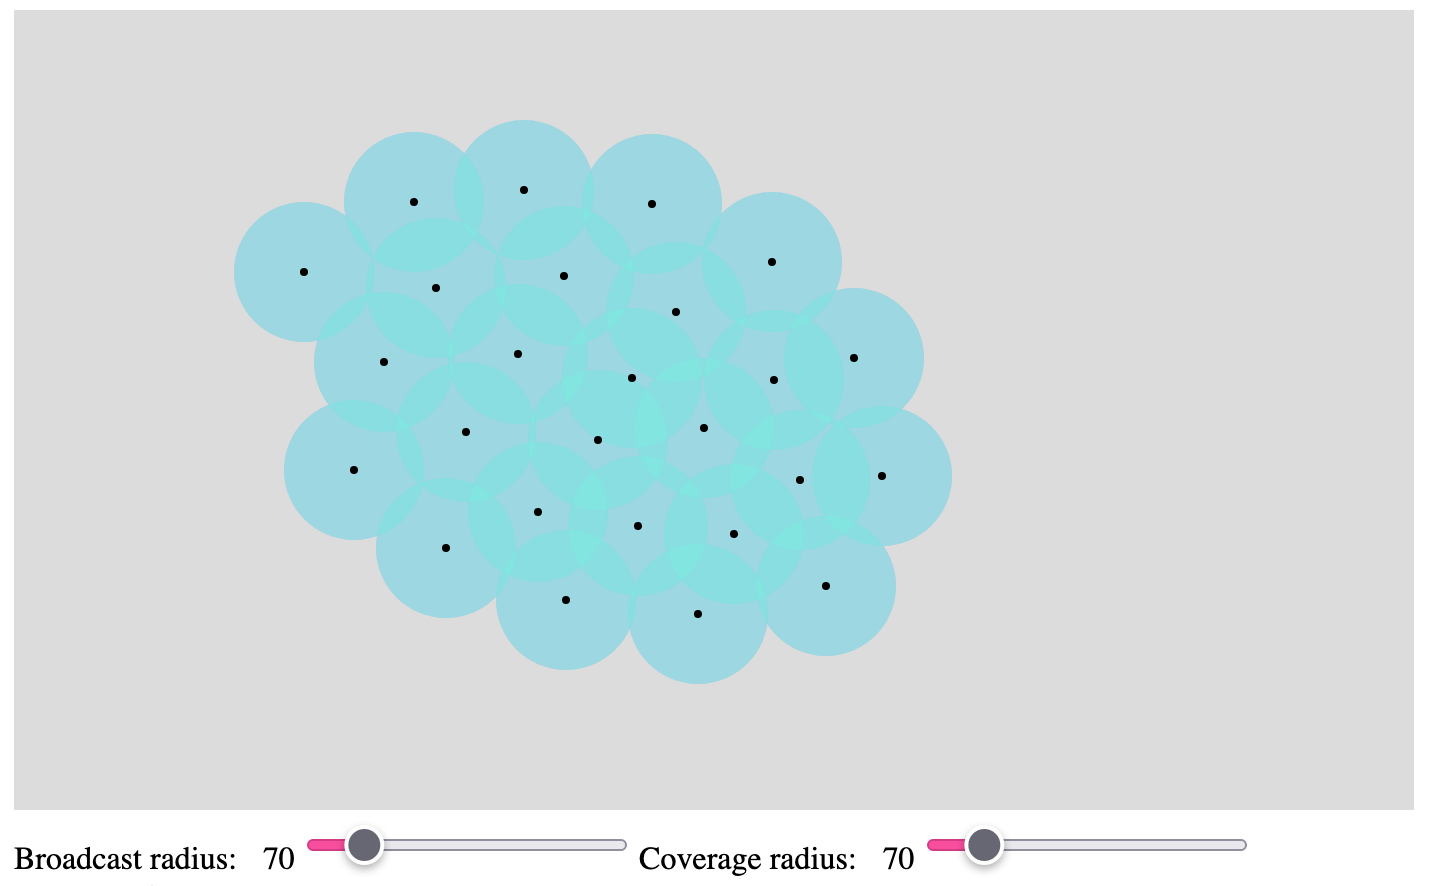
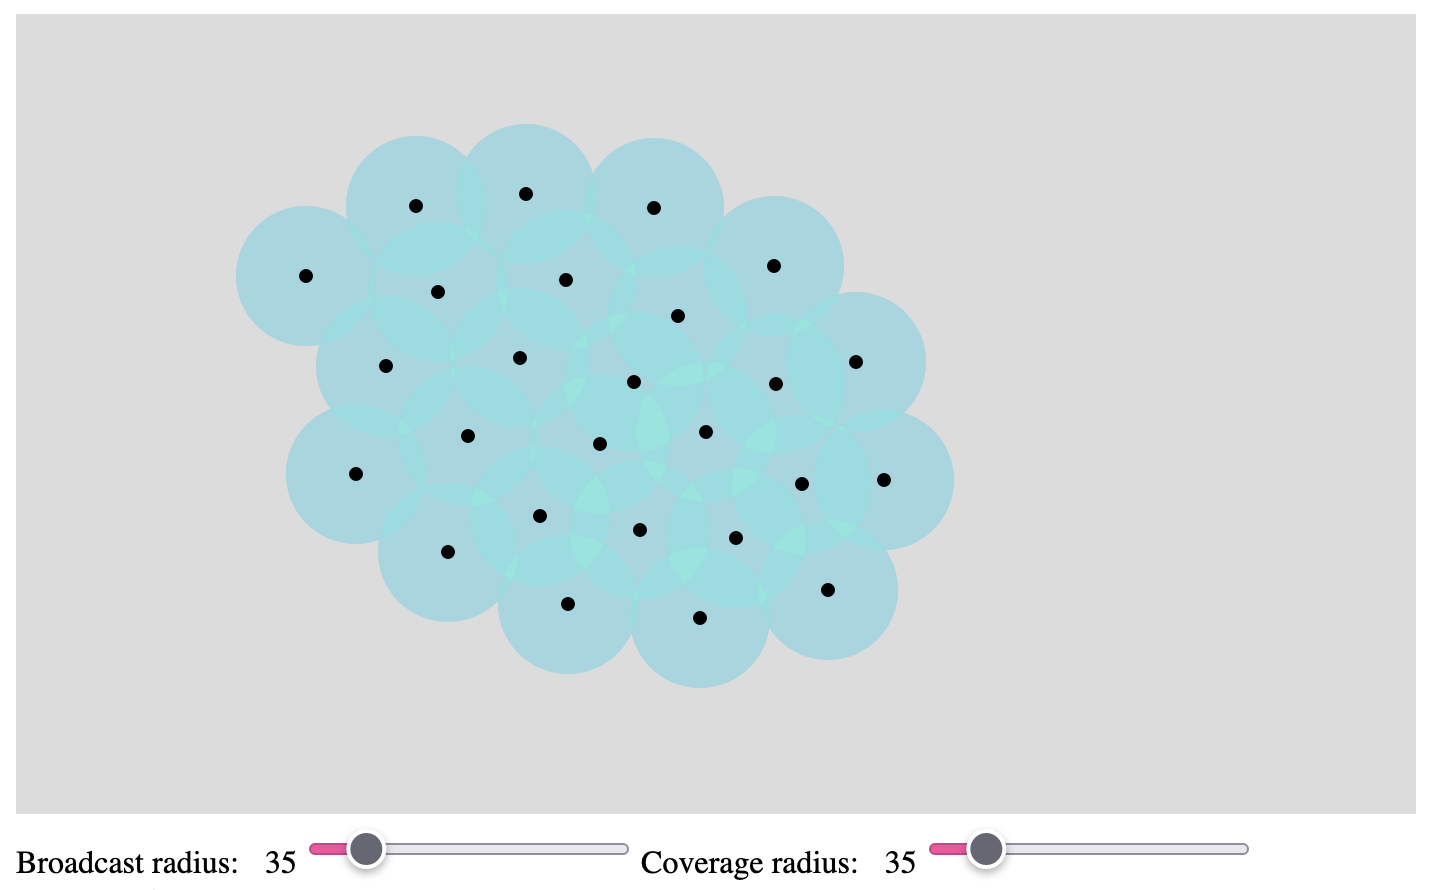
Fix radius being used as diameter

diff --git a/network_creator/sketch.js b/network_creator/sketch.js
@@ -1,6 +1,6 @@
 class Sensor {
   static {
-    this.drawRadius = 3;
+    this.drawRadius = 2;
     this.drawColor;
     this.broadcastColor;
     this.coverageColor;
@@ -45,8 +45,8 @@ function setup() {
   document.querySelector("#save-sensors").addEventListener("click", () => {
     saveJSON(
       {
-        broadcast_radius: broadcastRadius.value,
-        coverage_radius: coverageRadius.value,
+        broadcast_radius: +broadcastRadius.value,
+        coverage_radius: +coverageRadius.value,
         sensors: sensors.map((e) => ({ x: e.pos.x, y: e.pos.y })),
       },
       "sensors.json"
@@ -84,19 +84,19 @@ function draw() {
   fill(Sensor.broadcastColor);
   noStroke();
   for (const sensor of sensors) {
-    circle(sensor.pos.x, sensor.pos.y, broadcastRadius.value);
+    circle(sensor.pos.x, sensor.pos.y, broadcastRadius.value * 2);
   }
 
   fill(Sensor.coverageColor);
   noStroke();
   for (const sensor of sensors) {
-    circle(sensor.pos.x, sensor.pos.y, coverageRadius.value);
+    circle(sensor.pos.x, sensor.pos.y, coverageRadius.value * 2);
   }
 
   fill(Sensor.drawColor);
   stroke(Sensor.drawColor);
   for (const sensor of sensors) {
-    circle(sensor.pos.x, sensor.pos.y, Sensor.drawRadius);
+    circle(sensor.pos.x, sensor.pos.y, Sensor.drawRadius * 2);
   }
 }
 

diff --git a/network_creator/index.html b/network_creator/index.html
@@ -28,28 +28,28 @@
 
     <label for="broadcast-radius"
       >Broadcast radius:
-      <span class="slider-value" id="broadcast-radius-value">50</span></label
+      <span class="slider-value" id="broadcast-radius-value">25</span></label
     >
     <input
       type="range"
       id="broadcast-radius"
-      min="50"
-      max="200"
+      min="25"
+      max="100"
       step="1"
-      value="50"
+      value="25"
       autocomplete="off"
     />
     <label for="coverage-radius"
       >Coverage radius:
-      <span class="slider-value" id="coverage-radius-value">70</span></label
+      <span class="slider-value" id="coverage-radius-value">35</span></label
     >
     <input
       type="range"
       id="coverage-radius"
-      min="50"
-      max="200"
+      min="25"
+      max="100"
       step="1"
-      value="70"
+      value="35"
       autocomplete="off"
     />
 
